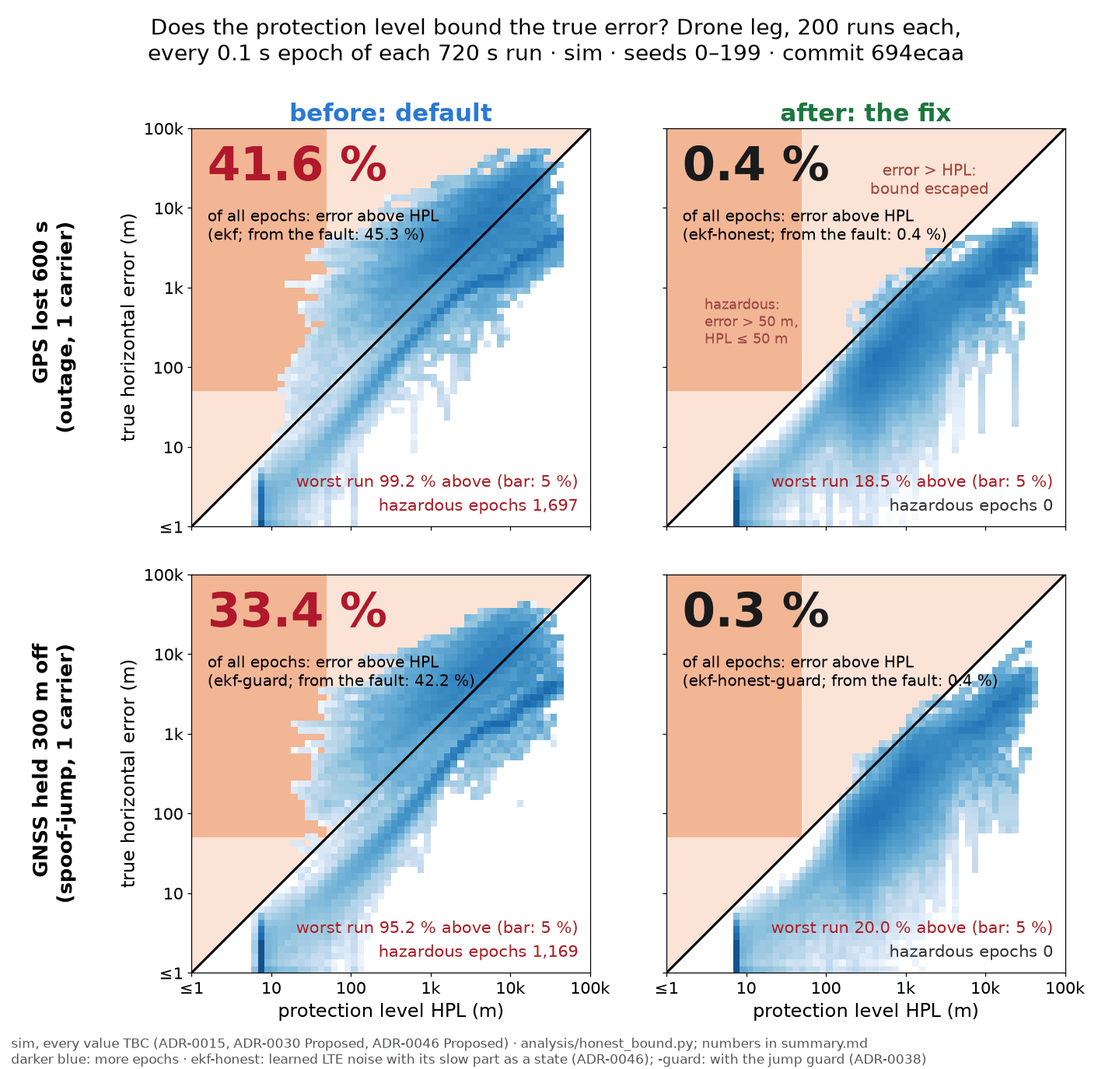
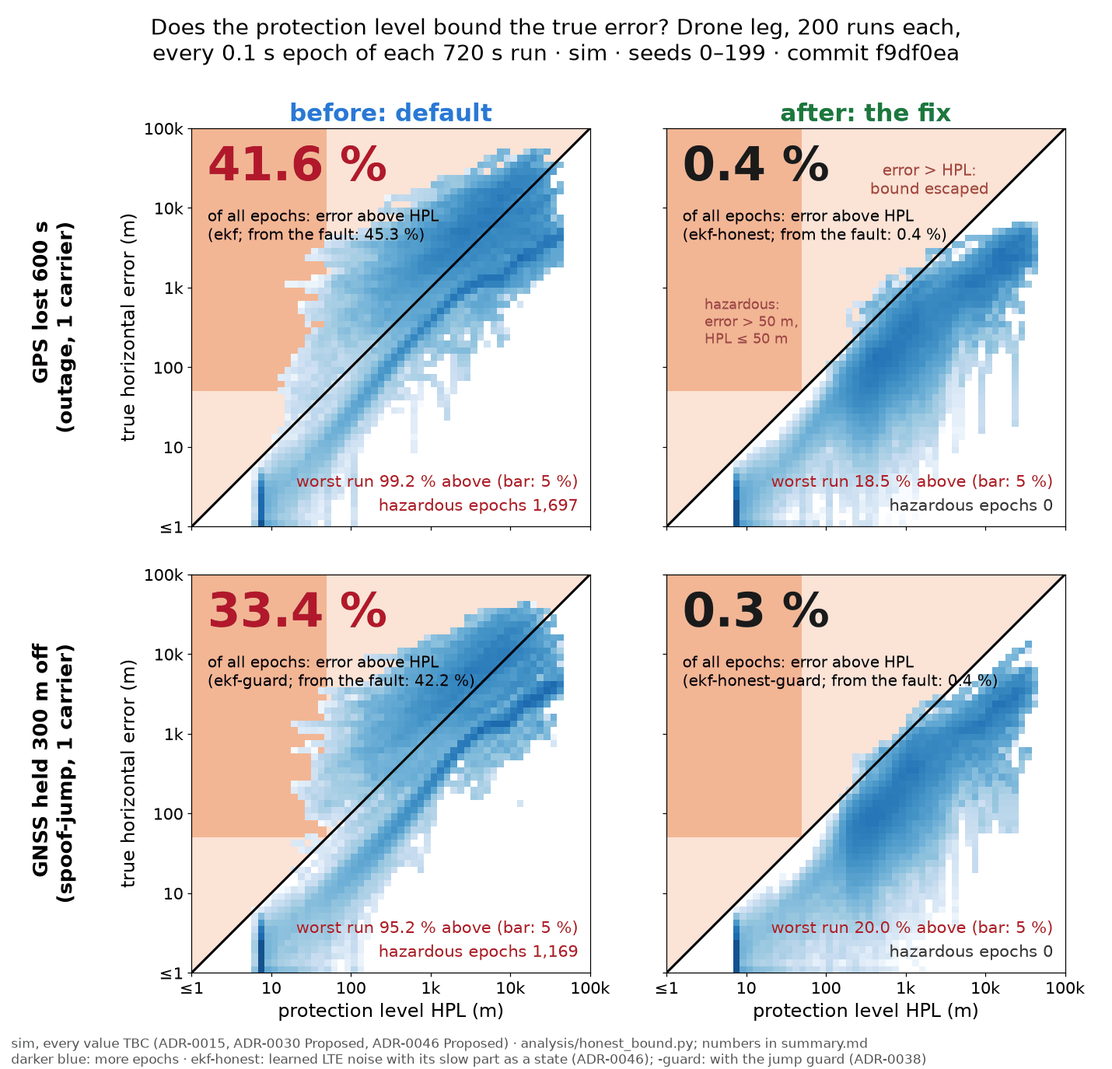
docs(analysis): regenerate the honest-bound results from the full re-run
Every plan re-run at f9df0ea on g14, clean tree (11 plans, all
finished); summary and figure from python analysis/honest_bound.py
--report at 666fc94.

Moved against the committed summary:
- realistic/long-outage, ekf as registered: above HPL 90.87 % -> 10.67 %
  (baro-drift 7.95 % -> 3.65 %; tune seeds 91.36 % -> 7.68 %), from
  PR #244's receiver-clock model; the old numbers stay as the
  pseudorange_receiver_clock false rows.
- approach/outage, ekf and ekf-learned-noise: above HPL 83.75 % ->
  12.51 %, the same cause.
- New columns: no harm over the whole outage, and the stress table.
Unchanged: every drone row (the 27 main-table rows match cell for cell
apart from the two new columns; the measure rows gain the NEES column
the older pickles did not record).

Part of #226.

Changed region(s): [[0.1231, 0.0305, 0.8615, 0.0611]]

diff --git a/analysis/results/honest-bound/summary.md b/analysis/results/honest-bound/summary.md
@@ -10,39 +10,62 @@
 
 ## Bars on held-out seeds (`stress`)
 
-`python analysis/honest_bound.py --plan stress --part plain:13c --seeds 0-19 --jobs 3 --host g14` at `9b02665` on g14 (Python 3.12.13), seeds 0–19, 107 min; `python analysis/honest_bound.py --plan stress --part plain:1c --seeds 0-199 --jobs 5 --host g14` at `694ecaa` on g14 (Python 3.12.13), seeds 0–199, 90 min; `python analysis/honest_bound.py --plan stress --part plain:6c --seeds 0-19 --jobs 2 --host g14` at `9b02665` on g14 (Python 3.12.13), seeds 0–19, 61 min
+`python analysis/honest_bound.py --plan stress --part plain:13c --seeds 0-19 --jobs 5 --host g14` at `f9df0ea` on g14 (Python 3.12.13), seeds 0–19, 71 min; `python analysis/honest_bound.py --plan stress --part plain:1c --seeds 0-199 --jobs 5 --host g14` at `f9df0ea` on g14 (Python 3.12.13), seeds 0–199, 71 min; `python analysis/honest_bound.py --plan stress --part plain:6c --seeds 0-19 --jobs 2 --host g14` at `f9df0ea` on g14 (Python 3.12.13), seeds 0–19, 54 min
 
-| Scenario | Fix | above HPL from fault (pooled) | worst run | hazardous | Honest (≤ 1 %, ≤ 5 %, 0) | T5 99.9 % | tightness | Useful (≤ 3) | HPL ≤ 50 m | p95 worst: fix / unfixed / default (m) | No harm (≤ 1.05×) | false alarms /h added |
-|---|---|---|---|---|---|---|---|---|---|---|---|---|
-| `drone/nominal/1c` | `ekf-honest` | 0.00 % | 0.0 % | 0 | met | met | – | – | 100.0 % | – / – / – | – – | +0.00 |
-| `drone/outage/1c` | `ekf-honest` | 0.45 % | 18.5 % | 0 | **not met** | **not met** | 1.35 | met | 9.8 % | 2,242 / 2,446 / 11,656 | 0.917 met | -0.30 |
-| `drone/outage-tower-clock-step/1c` | `ekf-honest` | 1.74 % | 22.3 % | 0 | **not met** | **not met** | 1.12 | met | 9.7 % | 2,242 / 2,516 / 11,631 | 0.891 met | -0.85 |
-| `drone/outage-tower-holdover/1c` | `ekf-honest` | 0.45 % | 18.0 % | 0 | **not met** | **not met** | 1.35 | met | 9.8 % | 2,203 / 2,446 / 10,863 | 0.901 met | -0.35 |
-| `drone/outage-imu-bias/1c` | `ekf-honest` | 0.45 % | 18.5 % | 0 | **not met** | **not met** | 1.35 | met | 9.8 % | 2,242 / 2,446 / 11,656 | 0.917 met | -0.30 |
-| `drone/outage-baro-drift/1c` | `ekf-honest` | 0.44 % | 18.4 % | 0 | **not met** | **not met** | 1.35 | met | 0.7 % | 2,242 / 2,446 / 11,656 | 0.917 met | +0.00 |
-| `drone/spoof-jump/1c` | `ekf-honest-guard` | 0.39 % | 20.0 % | 0 | **not met** | **not met** | 0.71 | met | 0.9 % | 2,856 / 2,692 / 11,738 | 1.061 **not met** | +0.00 |
-| `drone/meaconing/1c` | `ekf-honest-guard` | 0.39 % | 20.0 % | 0 | **not met** | **not met** | 0.71 | met | 0.9 % | 2,856 / 2,692 / 11,738 | 1.061 **not met** | +0.00 |
-| `drone/spoof-ramp/1c` | `ekf-honest-guard` | 99.34 % | 99.6 % | 1,089,731 | **not met** | **not met** | 0.02 | met | 100.0 % | 602 / 602 / 602 | 1.000 met | +0.00 |
-| `drone/nominal/6c` | `ekf-honest` | 0.00 % | 0.0 % | 0 | met | met | – | – | 100.0 % | – / – / – | – – | +0.00 |
-| `drone/outage/6c` | `ekf-honest` | 0.38 % | 2.7 % | 0 | met | **not met** | 1.67 | met | 9.8 % | 303 / 331 / 11,190 | 0.916 met | +0.00 |
-| `drone/outage-tower-clock-step/6c` | `ekf-honest` | 0.38 % | 2.6 % | 0 | met | **not met** | 1.64 | met | 9.8 % | 315 / 340 / 11,190 | 0.927 met | +0.00 |
-| `drone/outage-tower-holdover/6c` | `ekf-honest` | 0.43 % | 2.3 % | 0 | met | **not met** | 1.70 | met | 9.8 % | 313 / 341 / 11,194 | 0.918 met | +0.00 |
-| `drone/outage-imu-bias/6c` | `ekf-honest` | 0.38 % | 2.7 % | 0 | met | **not met** | 1.67 | met | 9.8 % | 303 / 331 / 11,190 | 0.916 met | +0.00 |
-| `drone/outage-baro-drift/6c` | `ekf-honest` | 0.38 % | 2.7 % | 0 | met | **not met** | 1.66 | met | 0.7 % | 303 / 331 / 11,190 | 0.916 met | +0.00 |
-| `drone/spoof-jump/6c` | `ekf-honest-guard` | 0.24 % | 2.8 % | 0 | met | **not met** | 1.71 | met | 0.9 % | 260 / 290 / 5,497 | 0.897 met | +0.00 |
-| `drone/meaconing/6c` | `ekf-honest-guard` | 0.24 % | 2.8 % | 0 | met | **not met** | 1.71 | met | 0.9 % | 260 / 290 / 5,497 | 0.897 met | +0.00 |
-| `drone/spoof-ramp/6c` | `ekf-honest-guard` | 99.34 % | 99.5 % | 108,980 | **not met** | **not met** | 0.02 | met | 100.0 % | 602 / 602 / 602 | 1.000 met | +0.00 |
-| `drone/nominal/13c` | `ekf-honest` | 0.00 % | 0.0 % | 0 | met | met | – | – | 100.0 % | – / – / – | – – | +0.00 |
-| `drone/outage/13c` | `ekf-honest` | 0.20 % | 0.9 % | 0 | met | **not met** | 1.79 | met | 9.8 % | 136 / 115 / 12,503 | 1.186 **not met** | +0.00 |
-| `drone/outage-tower-clock-step/13c` | `ekf-honest` | 0.19 % | 0.8 % | 0 | met | **not met** | 1.80 | met | 9.8 % | 136 / 117 / 12,503 | 1.163 **not met** | +0.00 |
-| `drone/outage-tower-holdover/13c` | `ekf-honest` | 0.20 % | 0.9 % | 0 | met | **not met** | 1.79 | met | 9.8 % | 136 / 120 / 12,375 | 1.132 **not met** | +0.00 |
-| `drone/outage-imu-bias/13c` | `ekf-honest` | 0.20 % | 0.9 % | 0 | met | **not met** | 1.79 | met | 9.8 % | 136 / 115 / 12,503 | 1.186 **not met** | +0.00 |
-| `drone/outage-baro-drift/13c` | `ekf-honest` | 0.19 % | 0.9 % | 0 | met | **not met** | 1.79 | met | 0.8 % | 136 / 115 / 12,503 | 1.186 **not met** | +0.00 |
-| `drone/spoof-jump/13c` | `ekf-honest-guard` | 0.18 % | 1.0 % | 0 | met | **not met** | 1.93 | met | 0.9 % | 139 / 134 / 9,973 | 1.039 met | +0.00 |
-| `drone/meaconing/13c` | `ekf-honest-guard` | 0.18 % | 1.0 % | 0 | met | **not met** | 1.93 | met | 0.9 % | 139 / 134 / 9,973 | 1.039 met | +0.00 |
-| `drone/spoof-ramp/13c` | `ekf-honest-guard` | 99.34 % | 99.5 % | 108,979 | **not met** | **not met** | 0.02 | met | 100.0 % | 602 / 602 / 602 | 1.000 met | +0.00 |
+| Scenario | Fix | above HPL from fault (pooled) | worst run | hazardous | Honest (≤ 1 %, ≤ 5 %, 0) | T5 99.9 % | tightness | Useful (≤ 3) | HPL ≤ 50 m | p95 worst: fix / unfixed / default (m) | No harm (≤ 1.05×) | p95 worst, whole outage: fix / unfixed (m) | No harm, whole outage (≤ 1.05×) | false alarms /h added |
+|---|---|---|---|---|---|---|---|---|---|---|---|---|---|---|
+| `drone/nominal/1c` | `ekf-honest` | 0.00 % | 0.0 % | 0 | met | met | – | – | 100.0 % | – / – / – | – – | – / – | – – | +0.00 |
+| `drone/outage/1c` | `ekf-honest` | 0.45 % | 18.5 % | 0 | **not met** | **not met** | 1.35 | met | 9.8 % | 2,242 / 2,446 / 11,656 | 0.917 met | 4,900 / 5,180 | 0.946 met | -0.30 |
+| `drone/outage-tower-clock-step/1c` | `ekf-honest` | 1.74 % | 22.3 % | 0 | **not met** | **not met** | 1.12 | met | 9.7 % | 2,242 / 2,516 / 11,631 | 0.891 met | 4,913 / 5,180 | 0.949 met | -0.85 |
+| `drone/outage-tower-holdover/1c` | `ekf-honest` | 0.45 % | 18.0 % | 0 | **not met** | **not met** | 1.35 | met | 9.8 % | 2,203 / 2,446 / 10,863 | 0.901 met | 4,825 / 5,142 | 0.938 met | -0.35 |
+| `drone/outage-imu-bias/1c` | `ekf-honest` | 0.45 % | 18.5 % | 0 | **not met** | **not met** | 1.35 | met | 9.8 % | 2,242 / 2,446 / 11,656 | 0.917 met | 4,900 / 5,180 | 0.946 met | -0.30 |
+| `drone/outage-baro-drift/1c` | `ekf-honest` | 0.44 % | 18.4 % | 0 | **not met** | **not met** | 1.35 | met | 0.7 % | 2,242 / 2,446 / 11,656 | 0.917 met | 4,900 / 5,180 | 0.946 met | +0.00 |
+| `drone/spoof-jump/1c` | `ekf-honest-guard` | 0.39 % | 20.0 % | 0 | **not met** | **not met** | 0.71 | met | 0.9 % | 2,856 / 2,692 / 11,738 | 1.061 **not met** | – / – | – – | +0.00 |
+| `drone/meaconing/1c` | `ekf-honest-guard` | 0.39 % | 20.0 % | 0 | **not met** | **not met** | 0.71 | met | 0.9 % | 2,856 / 2,692 / 11,738 | 1.061 **not met** | – / – | – – | +0.00 |
+| `drone/spoof-ramp/1c` | `ekf-honest-guard` | 99.34 % | 99.6 % | 1,089,731 | **not met** | **not met** | 0.02 | met | 100.0 % | 602 / 602 / 602 | 1.000 met | – / – | – – | +0.00 |
+| `drone/nominal/6c` | `ekf-honest` | 0.00 % | 0.0 % | 0 | met | met | – | – | 100.0 % | – / – / – | – – | – / – | – – | +0.00 |
+| `drone/outage/6c` | `ekf-honest` | 0.38 % | 2.7 % | 0 | met | **not met** | 1.67 | met | 9.8 % | 303 / 331 / 11,190 | 0.916 met | 303 / 331 | 0.916 met | +0.00 |
+| `drone/outage-tower-clock-step/6c` | `ekf-honest` | 0.38 % | 2.6 % | 0 | met | **not met** | 1.64 | met | 9.8 % | 315 / 340 / 11,190 | 0.927 met | 315 / 340 | 0.927 met | +0.00 |
+| `drone/outage-tower-holdover/6c` | `ekf-honest` | 0.43 % | 2.3 % | 0 | met | **not met** | 1.70 | met | 9.8 % | 313 / 341 / 11,194 | 0.918 met | 313 / 341 | 0.918 met | +0.00 |
+| `drone/outage-imu-bias/6c` | `ekf-honest` | 0.38 % | 2.7 % | 0 | met | **not met** | 1.67 | met | 9.8 % | 303 / 331 / 11,190 | 0.916 met | 303 / 331 | 0.916 met | +0.00 |
+| `drone/outage-baro-drift/6c` | `ekf-honest` | 0.38 % | 2.7 % | 0 | met | **not met** | 1.66 | met | 0.7 % | 303 / 331 / 11,190 | 0.916 met | 303 / 331 | 0.916 met | +0.00 |
+| `drone/spoof-jump/6c` | `ekf-honest-guard` | 0.24 % | 2.8 % | 0 | met | **not met** | 1.71 | met | 0.9 % | 260 / 290 / 5,497 | 0.897 met | – / – | – – | +0.00 |
+| `drone/meaconing/6c` | `ekf-honest-guard` | 0.24 % | 2.8 % | 0 | met | **not met** | 1.71 | met | 0.9 % | 260 / 290 / 5,497 | 0.897 met | – / – | – – | +0.00 |
+| `drone/spoof-ramp/6c` | `ekf-honest-guard` | 99.34 % | 99.5 % | 108,980 | **not met** | **not met** | 0.02 | met | 100.0 % | 602 / 602 / 602 | 1.000 met | – / – | – – | +0.00 |
+| `drone/nominal/13c` | `ekf-honest` | 0.00 % | 0.0 % | 0 | met | met | – | – | 100.0 % | – / – / – | – – | – / – | – – | +0.00 |
+| `drone/outage/13c` | `ekf-honest` | 0.20 % | 0.9 % | 0 | met | **not met** | 1.79 | met | 9.8 % | 136 / 115 / 12,503 | 1.186 **not met** | 136 / 142 | 0.961 met | +0.00 |
+| `drone/outage-tower-clock-step/13c` | `ekf-honest` | 0.19 % | 0.8 % | 0 | met | **not met** | 1.80 | met | 9.8 % | 136 / 117 / 12,503 | 1.163 **not met** | 136 / 143 | 0.949 met | +0.00 |
+| `drone/outage-tower-holdover/13c` | `ekf-honest` | 0.20 % | 0.9 % | 0 | met | **not met** | 1.79 | met | 9.8 % | 136 / 120 / 12,375 | 1.132 **not met** | 148 / 146 | 1.016 met | +0.00 |
+| `drone/outage-imu-bias/13c` | `ekf-honest` | 0.20 % | 0.9 % | 0 | met | **not met** | 1.79 | met | 9.8 % | 136 / 115 / 12,503 | 1.186 **not met** | 136 / 142 | 0.961 met | +0.00 |
+| `drone/outage-baro-drift/13c` | `ekf-honest` | 0.19 % | 0.9 % | 0 | met | **not met** | 1.79 | met | 0.8 % | 136 / 115 / 12,503 | 1.186 **not met** | 136 / 141 | 0.964 met | +0.00 |
+| `drone/spoof-jump/13c` | `ekf-honest-guard` | 0.18 % | 1.0 % | 0 | met | **not met** | 1.93 | met | 0.9 % | 139 / 134 / 9,973 | 1.039 met | – / – | – – | +0.00 |
+| `drone/meaconing/13c` | `ekf-honest-guard` | 0.18 % | 1.0 % | 0 | met | **not met** | 1.93 | met | 0.9 % | 139 / 134 / 9,973 | 1.039 met | – / – | – – | +0.00 |
+| `drone/spoof-ramp/13c` | `ekf-honest-guard` | 99.34 % | 99.5 % | 108,979 | **not met** | **not met** | 0.02 | met | 100.0 % | 602 / 602 / 602 | 1.000 met | – / – | – – | +0.00 |
 
-Honest on 17 of 27 drone scenario keys; T5's 99.9 % on 3 of 27; useful (where there is a GPS loss) on 24 of 24; no harm on 17 of 24. *Useful* tests tightness ≤ 3 only: below 1 (the 2 m/s ramp, 0.02) the HPL is far under the error and the entry fails *Honest*. *No harm* compares the fix with the same estimator without it (`ekf-learned-noise`, `+guard`) at its worst second.
+Honest on 17 of 27 drone scenario keys; T5's 99.9 % on 3 of 27; useful (where there is a GPS loss) on 24 of 24; no harm on 17 of 24, and over the whole outage on 15 of 15. *Useful* tests tightness ≤ 3 only: below 1 (the 2 m/s ramp, 0.02) the HPL is far under the error and the entry fails *Honest*. *No harm* compares the fix with the same estimator without it (`ekf-learned-noise`, `+guard`) at its worst second over 0–300 s (ADR-0034); *no harm, whole outage* the same over the whole GPS outage (600 s; not defined on the GNSS attacks, which have no outage that ends).
+
+## No harm over the whole outage (`stress`)
+
+The across-run 95th percentile and median of horizontal error at seconds after GPS loss, and the 95th percentile's worst second over the whole 600 s outage.
+
+| Scenario | Estimator | runs | p95 at 120 s | p95 at 300 s | p95 at 450 s | p95 at 600 s | p95 worst (m, s) | median at 120 s | median at 300 s | median at 450 s | median at 600 s |
+|---|---|---|---|---|---|---|---|---|---|---|---|
+| `drone/outage/1c` | `ekf` | 200 | 3,577 | 11,656 | 20,548 | 31,134 | 31,134 (s 600) | 1,240 | 4,063 | 6,560 | 9,407 |
+| `drone/outage/1c` | `ekf-learned-noise` | 200 | 797 | 2,446 | 3,718 | 5,180 | 5,180 (s 600) | 413 | 702 | 634 | 642 |
+| `drone/outage/1c` | `ekf-honest` | 200 | 688 | 2,242 | 3,542 | 4,900 | 4,900 (s 600) | 381 | 701 | 761 | 1,554 |
+| `drone/outage/1c` | honest / learned | | 0.86 | 0.92 | 0.95 | 0.95 | 0.946 | 0.92 | 1.00 | 1.20 | 2.42 |
+| `drone/outage/6c` | `ekf` | 20 | 3,083 | 11,090 | 20,298 | 32,280 | 32,280 (s 600) | 1,283 | 4,771 | 7,802 | 10,720 |
+| `drone/outage/6c` | `ekf-learned-noise` | 20 | 140 | 169 | 177 | 117 | 331 (s 203) | 83 | 66 | 74 | 52 |
+| `drone/outage/6c` | `ekf-honest` | 20 | 138 | 156 | 156 | 145 | 303 (s 203) | 80 | 53 | 72 | 49 |
+| `drone/outage/6c` | honest / learned | | 0.98 | 0.92 | 0.88 | 1.24 | 0.916 | 0.96 | 0.80 | 0.97 | 0.95 |
+| `drone/outage/13c` | `ekf` | 20 | 3,369 | 12,503 | 23,020 | 35,255 | 35,255 (s 600) | 1,147 | 4,223 | 11,443 | 16,644 |
+| `drone/outage/13c` | `ekf-learned-noise` | 20 | 66 | 92 | 71 | 72 | 142 (s 425) | 50 | 45 | 26 | 44 |
+| `drone/outage/13c` | `ekf-honest` | 20 | 75 | 90 | 86 | 70 | 136 (s 41) | 51 | 49 | 36 | 43 |
+| `drone/outage/13c` | honest / learned | | 1.13 | 0.97 | 1.22 | 0.98 | 0.961 | 1.01 | 1.09 | 1.38 | 0.99 |
+
+Each run's own p95 over the outage, `ekf-honest` / `ekf-learned-noise`, paired by seed: `drone/outage/1c`: median 0.98, 40% of 200 runs over 1.05×, largest 6.11 (seed 74); `drone/outage/6c`: median 0.92, 10% of 20 runs over 1.05×, largest 1.15 (seed 1); `drone/outage/13c`: median 0.99, 30% of 20 runs over 1.05×, largest 1.32 (seed 13).
+
+Why the median grows late on 1 carrier ([late-outage.md](late-outage.md), the same seeds replayed record by record): `ekf-honest`'s position covariance is larger (it is the honest one), so the curvature rule, which skips a radio record whose second-order term σ⊥⁴ / (2 r²) exceeds its learned noise, drops more of the LTE records as the outage goes on; the gate rejects almost none, and the records it uses carry a smaller R than `ekf-learned-noise`'s. Fewer updates, so the typical run drifts further while its HPL still covers it. Keeping every record makes both filters far more accurate and breaks the bound, so the rule is doing its job. What would fix it is an update that handles the nonlinearity instead of dropping the record (an iterated or sigma-point update, or a coarse re-acquisition once the position is far off); not tried here.
 
 ## Before and after, every drone scenario key (`stress`)
 
@@ -182,41 +205,47 @@ Honest on 17 of 27 drone scenario keys; T5's 99.9 % on 3 of 27; useful (where th
 
 The approach leg's `stress` rows were computed before `ekf-honest` gained the receiver-clock switch (its records carry our clock and no `rx_clock`), so they are left out above and rerun here (`legs`); the drone and timing records all have `rx_clock`, which the switch does not touch (`tests/test_ekf_honest.py`).
 
-`python analysis/honest_bound.py --plan legs --seeds 0-199 --jobs 2 --host mac` at `479d98b` on mac (Python 3.14.6), seeds 0–199, 4 min
+`python analysis/honest_bound.py --plan legs --seeds 0-199 --jobs 2 --host g14` at `f9df0ea` on g14 (Python 3.12.13), seeds 0–199, 5 min
 
 | Scenario | Estimator | runs | above HPL, whole run | above HPL, from fault | worst run | hazardous (runs) | NEES mean | tightness | HPL ≤ 50 m | p95 worst (m, s) | unsafe after loss (median s) |
 |---|---|---|---|---|---|---|---|---|---|---|---|
 | `approach/nominal` | `ekf` | 50 | 0.00 % | 0.00 % | 0.0 % (seed 0) | 0 (0) | 1.5 | – | 100.0 % | – | – |
 | `approach/nominal` | `ekf-learned-noise` | 50 | 0.00 % | 0.00 % | 0.0 % (seed 0) | 0 (0) | 1.5 | – | 100.0 % | – | – |
 | `approach/nominal` | `ekf-honest` | 50 | 0.00 % | 0.00 % | 0.0 % (seed 0) | 0 (0) | 1.5 | – | 100.0 % | – | – |
-| `approach/outage` | `ekf` | 50 | 76.78 % | 83.75 % | 96.1 % (seed 22) | 0 (0) | 33412.3 | 0.45 | 0.7 % | 2,938 (s 199) | 4.9 |
-| `approach/outage` | `ekf-learned-noise` | 50 | 76.78 % | 83.75 % | 96.1 % (seed 22) | 0 (0) | 33412.3 | 0.45 | 0.7 % | 2,938 (s 199) | 4.9 |
+| `approach/outage` | `ekf` | 50 | 11.47 % | 12.51 % | 43.3 % (seed 4) | 0 (0) | 199.2 | 1.17 | 4.7 % | 2,312 (s 141) | 4.9 |
+| `approach/outage` | `ekf-learned-noise` | 50 | 11.47 % | 12.51 % | 43.3 % (seed 4) | 0 (0) | 199.2 | 1.17 | 4.7 % | 2,312 (s 141) | 4.9 |
 | `approach/outage` | `ekf-honest` | 50 | 0.00 % | 0.00 % | 0.0 % (seed 0) | 0 (0) | 1.3 | 3.36 | 9.8 % | 1,747 (s 230) | 4.9 |
 
 ## `realistic-long-outage` and the barometer, held-out seeds (`realistic`, #228)
 
-`python analysis/honest_bound.py --plan realistic --seeds 0-199 --jobs 2 --host mac` at `624436f` (DIRTY TREE) on mac (Python 3.14.6), seeds 0–199, 42 min
+`python analysis/honest_bound.py --plan realistic --seeds 0-199 --jobs 3 --host g14` at `f9df0ea` on g14 (Python 3.12.13), seeds 0–199, 41 min
 
 | Scenario | Estimator | runs | above HPL, whole run | above HPL, from fault | worst run | hazardous (runs) | NEES mean | tightness | HPL ≤ 50 m | p95 worst (m, s) | unsafe after loss (median s) |
 |---|---|---|---|---|---|---|---|---|---|---|---|
+| `realistic/nominal` | `ekf {"pseudorange_receiver_clock": false}` | 200 | 0.00 % | 0.00 % | 0.0 % (seed 0) | 0 (0) | 1.6 | – | 99.9 % | – | – |
 | `realistic/nominal` | `ekf {"pseudorange_receiver_clock": true}` | 200 | 0.00 % | 0.00 % | 0.0 % (seed 0) | 0 (0) | 1.6 | – | 99.9 % | – | – |
 | `realistic/nominal` | `ekf` | 200 | 0.00 % | 0.00 % | 0.0 % (seed 0) | 0 (0) | 1.6 | – | 99.9 % | – | – |
 | `realistic/nominal` | `ekf-honest {"pseudorange_receiver_clock": false}` | 200 | 0.00 % | 0.00 % | 0.0 % (seed 0) | 0 (0) | 1.6 | – | 99.9 % | – | – |
 | `realistic/nominal` | `ekf-honest` | 200 | 0.00 % | 0.00 % | 0.0 % (seed 0) | 0 (0) | 1.6 | – | 99.9 % | – | – |
+| `realistic/long-outage` | `ekf {"pseudorange_receiver_clock": false}` | 200 | 75.75 % | 90.87 % | 97.3 % (seed 9) | 0 (0) | 6692.3 | 0.17 | 1.6 % | 3,609 (s 288) | 4.9 |
+| `realistic/baro-drift` | `ekf {"pseudorange_receiver_clock": false}` | 200 | 5.30 % | 7.95 % | 37.5 % (seed 137) | 0 (0) | 1266.0 | 1.23 | 45.5 % | 3,702 (s 239) | – |
 | `realistic/long-outage` | `ekf {"pseudorange_receiver_clock": true}` | 200 | 8.89 % | 10.67 % | 54.2 % (seed 80) | 0 (0) | 18.9 | 0.59 | 1.6 % | 588 (s 270) | 4.9 |
 | `realistic/baro-drift` | `ekf {"pseudorange_receiver_clock": true}` | 200 | 2.43 % | 3.65 % | 32.9 % (seed 45) | 0 (0) | 9.4 | 0.92 | 44.8 % | 327 (s 178) | – |
-| `realistic/long-outage` | `ekf` | 200 | 75.75 % | 90.87 % | 97.3 % (seed 9) | 0 (0) | 6692.3 | 0.17 | 1.6 % | 3,609 (s 288) | 4.9 |
-| `realistic/baro-drift` | `ekf` | 200 | 5.30 % | 7.95 % | 37.5 % (seed 137) | 0 (0) | 1266.0 | 1.23 | 45.5 % | 3,702 (s 239) | – |
+| `realistic/long-outage` | `ekf` | 200 | 8.89 % | 10.67 % | 54.2 % (seed 80) | 0 (0) | 18.9 | 0.59 | 1.6 % | 588 (s 270) | 4.9 |
+| `realistic/baro-drift` | `ekf` | 200 | 2.43 % | 3.65 % | 32.9 % (seed 45) | 0 (0) | 9.4 | 0.92 | 44.8 % | 327 (s 178) | – |
 | `realistic/long-outage` | `ekf-honest {"pseudorange_receiver_clock": false}` | 200 | 70.27 % | 84.30 % | 95.6 % (seed 160) | 0 (0) | 1314.0 | 0.26 | 1.6 % | 2,706 (s 298) | 4.9 |
 | `realistic/baro-drift` | `ekf-honest {"pseudorange_receiver_clock": false}` | 200 | 8.76 % | 13.14 % | 49.8 % (seed 153) | 0 (0) | 271.1 | 0.93 | 45.2 % | 3,276 (s 234) | – |
 | `realistic/long-outage` | `ekf-honest` | 200 | 0.16 % | 0.19 % | 24.5 % (seed 74) | 0 (0) | 2.6 | 1.85 | 1.6 % | 516 (s 270) | 4.9 |
 | `realistic/baro-drift` | `ekf-honest` | 200 | 0.00 % | 0.00 % | 0.8 % (seed 45) | 0 (0) | 2.1 | 2.07 | 45.5 % | 319 (s 150) | – |
+| `realistic/long-outage/nobaro` | `ekf {"pseudorange_receiver_clock": false}` | 200 | 69.81 % | 83.75 % | 96.6 % (seed 45) | 0 (0) | 1161.9 | 0.25 | 1.6 % | 2,942 (s 294) | 4.9 |
+| `realistic/long-outage/drop-baro` | `ekf {"pseudorange_receiver_clock": false}` | 200 | 71.17 % | 85.38 % | 97.0 % (seed 24) | 0 (0) | 1059.1 | 0.26 | 1.6 % | 2,715 (s 277) | 4.9 |
+| `realistic/long-outage/barobias=0` | `ekf {"pseudorange_receiver_clock": false}` | 200 | 75.75 % | 90.88 % | 97.3 % (seed 9) | 0 (0) | 6692.4 | 0.17 | 1.6 % | 3,609 (s 288) | 4.9 |
 | `realistic/long-outage/nobaro` | `ekf {"pseudorange_receiver_clock": true}` | 200 | 7.60 % | 9.11 % | 66.0 % (seed 44) | 0 (0) | 16.5 | 0.54 | 1.6 % | 1,089 (s 270) | 4.9 |
 | `realistic/long-outage/drop-baro` | `ekf {"pseudorange_receiver_clock": true}` | 200 | 6.83 % | 8.19 % | 61.6 % (seed 81) | 0 (0) | 17.1 | 0.63 | 1.6 % | 1,079 (s 270) | 4.9 |
 | `realistic/long-outage/barobias=0` | `ekf {"pseudorange_receiver_clock": true}` | 200 | 8.89 % | 10.67 % | 54.2 % (seed 80) | 0 (0) | 18.9 | 0.59 | 1.6 % | 588 (s 270) | 4.9 |
-| `realistic/long-outage/nobaro` | `ekf` | 200 | 69.81 % | 83.75 % | 96.6 % (seed 45) | 0 (0) | 1161.9 | 0.25 | 1.6 % | 2,942 (s 294) | 4.9 |
-| `realistic/long-outage/drop-baro` | `ekf` | 200 | 71.17 % | 85.38 % | 97.0 % (seed 24) | 0 (0) | 1059.1 | 0.26 | 1.6 % | 2,715 (s 277) | 4.9 |
-| `realistic/long-outage/barobias=0` | `ekf` | 200 | 75.75 % | 90.88 % | 97.3 % (seed 9) | 0 (0) | 6692.4 | 0.17 | 1.6 % | 3,609 (s 288) | 4.9 |
+| `realistic/long-outage/nobaro` | `ekf` | 200 | 7.60 % | 9.11 % | 66.0 % (seed 44) | 0 (0) | 16.5 | 0.54 | 1.6 % | 1,089 (s 270) | 4.9 |
+| `realistic/long-outage/drop-baro` | `ekf` | 200 | 6.83 % | 8.19 % | 61.6 % (seed 81) | 0 (0) | 17.1 | 0.63 | 1.6 % | 1,079 (s 270) | 4.9 |
+| `realistic/long-outage/barobias=0` | `ekf` | 200 | 8.89 % | 10.67 % | 54.2 % (seed 80) | 0 (0) | 18.9 | 0.59 | 1.6 % | 588 (s 270) | 4.9 |
 | `realistic/long-outage/nobaro` | `ekf-honest {"pseudorange_receiver_clock": false}` | 200 | 58.90 % | 70.67 % | 96.0 % (seed 183) | 0 (0) | 233.1 | 0.46 | 1.6 % | 2,552 (s 299) | 4.9 |
 | `realistic/long-outage/drop-baro` | `ekf-honest {"pseudorange_receiver_clock": false}` | 200 | 62.25 % | 74.68 % | 95.6 % (seed 160) | 0 (0) | 222.3 | 0.45 | 1.6 % | 2,496 (s 299) | 4.9 |
 | `realistic/long-outage/barobias=0` | `ekf-honest {"pseudorange_receiver_clock": false}` | 200 | 70.27 % | 84.30 % | 95.6 % (seed 160) | 0 (0) | 1314.0 | 0.26 | 1.6 % | 2,706 (s 298) | 4.9 |
@@ -226,7 +255,7 @@ The approach leg's `stress` rows were computed before `ekf-honest` gained the re
 
 ## Sweep of the new settings (`sweep`)
 
-`python analysis/honest_bound.py --plan sweep --seeds 0-49 --jobs 5 --host g14` at `624436f` on g14 (Python 3.12.13), seeds 0–49, 17 min
+`python analysis/honest_bound.py --plan sweep --seeds 0-49 --jobs 5 --host g14` at `f9df0ea` on g14 (Python 3.12.13), seeds 0–49, 19 min
 
 | Scenario | Setting | above HPL from fault | worst run | hazardous | tightness | p95 worst (m) | p95 worst / unfixed | Honest | Useful | No harm |
 |---|---|---|---|---|---|---|---|---|---|---|
@@ -247,7 +276,7 @@ The approach leg's `stress` rows were computed before `ekf-honest` gained the re
 
 ## Solution separation as the reference (`mhss`)
 
-`python analysis/honest_bound.py --plan mhss --seeds 0-19 --jobs 2 --host g14` at `624436f` on g14 (Python 3.12.13), seeds 0–19, 41 min
+`python analysis/honest_bound.py --plan mhss --seeds 0-19 --jobs 2 --host g14` at `f9df0ea` on g14 (Python 3.12.13), seeds 0–19, 48 min
 
 | Scenario | Estimator | runs | above HPL, whole run | above HPL, from fault | worst run | hazardous (runs) | NEES mean | tightness | HPL ≤ 50 m | p95 worst (m, s) | unsafe after loss (median s) |
 |---|---|---|---|---|---|---|---|---|---|---|---|
@@ -291,28 +320,34 @@ The approach leg's `stress` rows were computed before `ekf-honest` gained the re
 
 ### `realistic-long-outage` and the barometer (#228, tuning seeds 1000–1049)
 
-The set's towers report their true white noise (50 m) but carry 50 m / 30 s multipath too, and every range carries our receiver clock (`receiver_clock: true`, 20 ppb drift), which `ekf` does not model (`pseudorange_receiver_clock` False). Its barometer is drawn as white 0.5 m at 10 Hz plus one constant bias of sigma 1.0 m per run (`sim.models.baro`); the filter is told the 0.5 m white part only. Rows: each estimator with the receiver-clock switch as registered and the other way; scenario variants: `nobaro` (no barometer in the sim: every later source's draws change, as #228's ablation), `drop-baro` (the same records, the barometer's dropped before the filter: paired), `barobias=0` (no bias).
+The set's towers report their true white noise (50 m) but carry 50 m / 30 s multipath too, and every range carries our receiver clock (`receiver_clock: true`, 20 ppb drift). `ekf` as registered models it once GNSS time has been used (`pseudorange_receiver_clock` "observed", ADR-0047, PR #244); with it False it is `ekf` before #244, which did not model it (#228). Its barometer is drawn as white 0.5 m at 10 Hz plus one constant bias of sigma 1.0 m per run (`sim.models.baro`); the filter is told the 0.5 m white part only. Rows: each estimator with the receiver-clock switch as registered and the other way; scenario variants: `nobaro` (no barometer in the sim: every later source's draws change, as #228's ablation), `drop-baro` (the same records, the barometer's dropped before the filter: paired), `barobias=0` (no bias).
 
 | Scenario | Estimator | runs | above HPL, whole run | above HPL, from fault | worst run | hazardous (runs) | NEES mean | tightness | HPL ≤ 50 m | p95 worst (m, s) | unsafe after loss (median s) |
 |---|---|---|---|---|---|---|---|---|---|---|---|
+| `realistic/nominal` | `ekf {"pseudorange_receiver_clock": false}` | 50 | 0.00 % | 0.00 % | 0.0 % (seed 1000) | 0 (0) | 1.6 | – | 99.9 % | – | – |
 | `realistic/nominal` | `ekf {"pseudorange_receiver_clock": true}` | 50 | 0.00 % | 0.00 % | 0.0 % (seed 1000) | 0 (0) | 1.6 | – | 99.9 % | – | – |
 | `realistic/nominal` | `ekf` | 50 | 0.00 % | 0.00 % | 0.0 % (seed 1000) | 0 (0) | 1.6 | – | 99.9 % | – | – |
 | `realistic/nominal` | `ekf-honest {"pseudorange_receiver_clock": false}` | 50 | 0.00 % | 0.00 % | 0.0 % (seed 1000) | 0 (0) | 1.6 | – | 99.9 % | – | – |
 | `realistic/nominal` | `ekf-honest` | 50 | 0.00 % | 0.00 % | 0.0 % (seed 1000) | 0 (0) | 1.6 | – | 99.9 % | – | – |
+| `realistic/long-outage` | `ekf {"pseudorange_receiver_clock": false}` | 50 | 76.16 % | 91.36 % | 97.3 % (seed 1023) | 0 (0) | 6905.1 | 0.19 | 1.6 % | 3,375 (s 275) | 4.9 |
+| `realistic/baro-drift` | `ekf {"pseudorange_receiver_clock": false}` | 50 | 5.84 % | 8.75 % | 22.9 % (seed 1035) | 0 (0) | 1378.0 | 1.56 | 45.8 % | 3,490 (s 239) | – |
 | `realistic/long-outage` | `ekf {"pseudorange_receiver_clock": true}` | 50 | 6.40 % | 7.68 % | 43.5 % (seed 1010) | 0 (0) | 16.8 | 0.73 | 1.6 % | 578 (s 289) | 4.9 |
 | `realistic/baro-drift` | `ekf {"pseudorange_receiver_clock": true}` | 50 | 2.85 % | 4.28 % | 37.5 % (seed 1026) | 0 (0) | 17.5 | 0.89 | 45.0 % | 413 (s 150) | – |
-| `realistic/long-outage` | `ekf` | 50 | 76.16 % | 91.36 % | 97.3 % (seed 1023) | 0 (0) | 6905.1 | 0.19 | 1.6 % | 3,375 (s 275) | 4.9 |
-| `realistic/baro-drift` | `ekf` | 50 | 5.84 % | 8.75 % | 22.9 % (seed 1035) | 0 (0) | 1378.0 | 1.56 | 45.8 % | 3,490 (s 239) | – |
+| `realistic/long-outage` | `ekf` | 50 | 6.40 % | 7.68 % | 43.5 % (seed 1010) | 0 (0) | 16.8 | 0.73 | 1.6 % | 578 (s 289) | 4.9 |
+| `realistic/baro-drift` | `ekf` | 50 | 2.85 % | 4.28 % | 37.5 % (seed 1026) | 0 (0) | 17.5 | 0.89 | 45.0 % | 413 (s 150) | – |
 | `realistic/long-outage` | `ekf-honest {"pseudorange_receiver_clock": false}` | 50 | 70.70 % | 84.81 % | 94.6 % (seed 1016) | 0 (0) | 1335.7 | 0.26 | 1.6 % | 2,824 (s 299) | 4.9 |
 | `realistic/baro-drift` | `ekf-honest {"pseudorange_receiver_clock": false}` | 50 | 8.05 % | 12.07 % | 46.6 % (seed 1034) | 0 (0) | 260.1 | 0.99 | 45.4 % | 2,994 (s 239) | – |
 | `realistic/long-outage` | `ekf-honest` | 50 | 0.30 % | 0.36 % | 17.9 % (seed 1001) | 0 (0) | 2.3 | 2.35 | 1.6 % | 456 (s 289) | 4.9 |
 | `realistic/baro-drift` | `ekf-honest` | 50 | 0.00 % | 0.00 % | 0.0 % (seed 1000) | 0 (0) | 2.1 | 2.20 | 45.8 % | 380 (s 150) | – |
+| `realistic/long-outage/nobaro` | `ekf {"pseudorange_receiver_clock": false}` | 50 | 68.77 % | 82.50 % | 97.0 % (seed 1026) | 0 (0) | 1006.8 | 0.25 | 1.6 % | 2,454 (s 270) | 4.9 |
+| `realistic/long-outage/drop-baro` | `ekf {"pseudorange_receiver_clock": false}` | 50 | 71.88 % | 86.23 % | 97.6 % (seed 1023) | 0 (0) | 1134.1 | 0.25 | 1.6 % | 2,998 (s 279) | 4.9 |
+| `realistic/long-outage/barobias=0` | `ekf {"pseudorange_receiver_clock": false}` | 50 | 76.16 % | 91.36 % | 97.3 % (seed 1023) | 0 (0) | 6905.1 | 0.19 | 1.6 % | 3,375 (s 275) | 4.9 |
 | `realistic/long-outage/nobaro` | `ekf {"pseudorange_receiver_clock": true}` | 50 | 7.37 % | 8.84 % | 63.0 % (seed 1019) | 0 (0) | 18.0 | 0.70 | 1.6 % | 1,278 (s 292) | 4.9 |
 | `realistic/long-outage/drop-baro` | `ekf {"pseudorange_receiver_clock": true}` | 50 | 4.29 % | 5.15 % | 51.9 % (seed 1010) | 0 (0) | 13.5 | 0.77 | 1.6 % | 769 (s 293) | 4.9 |
 | `realistic/long-outage/barobias=0` | `ekf {"pseudorange_receiver_clock": true}` | 50 | 6.40 % | 7.68 % | 43.5 % (seed 1010) | 0 (0) | 16.8 | 0.73 | 1.6 % | 578 (s 289) | 4.9 |
-| `realistic/long-outage/nobaro` | `ekf` | 50 | 68.77 % | 82.50 % | 97.0 % (seed 1026) | 0 (0) | 1006.8 | 0.25 | 1.6 % | 2,454 (s 270) | 4.9 |
-| `realistic/long-outage/drop-baro` | `ekf` | 50 | 71.88 % | 86.23 % | 97.6 % (seed 1023) | 0 (0) | 1134.1 | 0.25 | 1.6 % | 2,998 (s 279) | 4.9 |
-| `realistic/long-outage/barobias=0` | `ekf` | 50 | 76.16 % | 91.36 % | 97.3 % (seed 1023) | 0 (0) | 6905.1 | 0.19 | 1.6 % | 3,375 (s 275) | 4.9 |
+| `realistic/long-outage/nobaro` | `ekf` | 50 | 7.37 % | 8.84 % | 63.0 % (seed 1019) | 0 (0) | 18.0 | 0.70 | 1.6 % | 1,278 (s 292) | 4.9 |
+| `realistic/long-outage/drop-baro` | `ekf` | 50 | 4.29 % | 5.15 % | 51.9 % (seed 1010) | 0 (0) | 13.5 | 0.77 | 1.6 % | 769 (s 293) | 4.9 |
+| `realistic/long-outage/barobias=0` | `ekf` | 50 | 6.40 % | 7.68 % | 43.5 % (seed 1010) | 0 (0) | 16.8 | 0.73 | 1.6 % | 578 (s 289) | 4.9 |
 | `realistic/long-outage/nobaro` | `ekf-honest {"pseudorange_receiver_clock": false}` | 50 | 61.89 % | 74.25 % | 95.3 % (seed 1034) | 0 (0) | 210.4 | 0.45 | 1.6 % | 2,452 (s 297) | 4.9 |
 | `realistic/long-outage/drop-baro` | `ekf-honest {"pseudorange_receiver_clock": false}` | 50 | 62.56 % | 75.05 % | 94.6 % (seed 1016) | 0 (0) | 156.6 | 0.47 | 1.6 % | 2,393 (s 294) | 4.9 |
 | `realistic/long-outage/barobias=0` | `ekf-honest {"pseudorange_receiver_clock": false}` | 50 | 70.70 % | 84.81 % | 94.6 % (seed 1016) | 0 (0) | 1335.7 | 0.26 | 1.6 % | 2,824 (s 299) | 4.9 |
@@ -323,46 +358,46 @@ The set's towers report their true white noise (50 m) but carry 50 m / 30 s mult
 
 ## Step 1: the existing estimators on tuning seeds (`measure`)
 
-`python analysis/honest_bound.py --plan measure --part calibrated:1c --seeds 1000-1049 --jobs 5 --host g14` at `e982f95` (DIRTY TREE) on g14 (Python 3.12.13), seeds 1000–1049, 10 min; `python analysis/honest_bound.py --plan measure --part plain --seeds 1000-1049 --jobs 5 --host g14` at `e982f95` (DIRTY TREE) on g14 (Python 3.12.13), seeds 1000–1049, 14 min
+`python analysis/honest_bound.py --plan measure --part calibrated:1c --seeds 1000-1049 --jobs 5 --host g14` at `f9df0ea` on g14 (Python 3.12.13), seeds 1000–1049, 7 min; `python analysis/honest_bound.py --plan measure --part plain --seeds 1000-1049 --jobs 5 --host g14` at `f9df0ea` on g14 (Python 3.12.13), seeds 1000–1049, 17 min
 
 | Scenario | Estimator | runs | above HPL, whole run | above HPL, from fault | worst run | hazardous (runs) | NEES mean | tightness | HPL ≤ 50 m | p95 worst (m, s) | unsafe after loss (median s) |
 |---|---|---|---|---|---|---|---|---|---|---|---|
-| `drone/nominal/1c` | `ekf` | 50 | 0.00 % | 0.00 % | 0.0 % (seed 1000) | 0 (0) | – | – | 100.0 % | – | – |
-| `drone/nominal/1c` | `ekf-learned-noise` | 50 | 0.00 % | 0.00 % | 0.0 % (seed 1000) | 0 (0) | – | – | 100.0 % | – | – |
-| `drone/nominal/1c` | `ekf-calibrated` | 50 | 0.00 % | 0.00 % | 0.0 % (seed 1000) | 0 (0) | – | – | 100.0 % | – | – |
-| `drone/nominal/1c` | `ekf-calibrated-learned-noise` | 50 | 0.00 % | 0.00 % | 0.0 % (seed 1000) | 0 (0) | – | – | 100.0 % | – | – |
-| `drone/outage/1c` | `ekf` | 50 | 34.42 % | 37.55 % | 95.3 % (seed 1015) | 237 (7) | – | 1.03 | 4.5 % | 10,006 (s 300) | 4.9 |
-| `drone/outage/1c` | `ekf-learned-noise` | 50 | 2.43 % | 2.66 % | 22.3 % (seed 1041) | 0 (0) | – | 1.11 | 9.5 % | 2,344 (s 300) | 4.9 |
-| `drone/outage/1c` | `ekf-calibrated` | 50 | 32.94 % | 35.93 % | 93.0 % (seed 1015) | 25 (2) | – | 1.29 | 4.7 % | 7,295 (s 299) | 4.9 |
-| `drone/outage/1c` | `ekf-calibrated-learned-noise` | 50 | 0.03 % | 0.04 % | 1.8 % (seed 1013) | 0 (0) | – | 1.81 | 9.6 % | 2,442 (s 300) | 4.9 |
-| `drone/spoof-jump/1c` | `ekf` | 50 | 74.63 % | 94.25 % | 97.7 % (seed 1015) | 240,047 (48) | – | 0.00 | 85.1 % | 7,508 (s 300) | – |
-| `drone/spoof-jump/1c` | `ekf-learned-noise` | 50 | 71.60 % | 90.43 % | 96.2 % (seed 1025) | 256,516 (50) | – | 0.02 | 90.9 % | 508 (s 57) | – |
-| `drone/spoof-jump/1c` | `ekf-guard` | 50 | 24.45 % | 30.88 % | 97.7 % (seed 1015) | 669 (6) | – | 1.61 | 1.1 % | 9,532 (s 300) | – |
-| `drone/spoof-jump/1c` | `ekf-learned-noise+guard` | 50 | 2.62 % | 3.31 % | 19.1 % (seed 1010) | 0 (0) | – | 0.82 | 0.9 % | 1,828 (s 300) | – |
-| `drone/spoof-jump/1c` | `ekf-calibrated` | 50 | 74.98 % | 94.70 % | 96.7 % (seed 1046) | 249,259 (48) | – | 0.01 | 88.3 % | 2,446 (s 300) | – |
-| `drone/spoof-jump/1c` | `ekf-calibrated-learned-noise` | 50 | 73.38 % | 92.68 % | 95.5 % (seed 1004) | 264,026 (50) | – | 0.02 | 93.5 % | 306 (s 28) | – |
-| `drone/spoof-jump/1c` | `ekf-calibrated-guard` | 50 | 24.62 % | 31.09 % | 95.6 % (seed 1015) | 29 (2) | – | 1.53 | 0.9 % | 7,619 (s 300) | – |
-| `drone/spoof-jump/1c` | `ekf-calibrated-learned-noise+guard` | 50 | 0.22 % | 0.28 % | 5.2 % (seed 1028) | 0 (0) | – | 1.06 | 0.9 % | 2,004 (s 300) | – |
-| `drone/nominal/6c` | `ekf` | 50 | 0.00 % | 0.00 % | 0.0 % (seed 1000) | 0 (0) | – | – | 100.0 % | – | – |
-| `drone/nominal/6c` | `ekf-learned-noise` | 50 | 0.00 % | 0.00 % | 0.0 % (seed 1000) | 0 (0) | – | – | 100.0 % | – | – |
-| `drone/outage/6c` | `ekf` | 50 | 42.34 % | 46.19 % | 98.2 % (seed 1013) | 293 (6) | – | 0.82 | 3.6 % | 12,442 (s 300) | 4.9 |
-| `drone/outage/6c` | `ekf-learned-noise` | 50 | 0.21 % | 0.23 % | 1.8 % (seed 1034) | 0 (0) | – | 1.41 | 9.8 % | 213 (s 94) | 4.9 |
-| `drone/spoof-jump/6c` | `ekf` | 50 | 75.40 % | 95.23 % | 96.5 % (seed 1017) | 244,207 (50) | – | 0.00 | 86.6 % | 4,700 (s 300) | – |
-| `drone/spoof-jump/6c` | `ekf-learned-noise` | 50 | 48.49 % | 61.24 % | 95.1 % (seed 1047) | 174,122 (48) | – | 0.44 | 62.0 % | 304 (s 82) | – |
-| `drone/spoof-jump/6c` | `ekf-guard` | 50 | 28.74 % | 36.30 % | 96.5 % (seed 1017) | 590 (6) | – | 1.36 | 1.1 % | 12,539 (s 300) | – |
-| `drone/spoof-jump/6c` | `ekf-learned-noise+guard` | 50 | 0.38 % | 0.48 % | 8.2 % (seed 1021) | 0 (0) | – | 1.59 | 0.9 % | 199 (s 270) | – |
-| `drone/nominal/13c` | `ekf` | 50 | 0.00 % | 0.00 % | 0.0 % (seed 1000) | 0 (0) | – | – | 100.0 % | – | – |
-| `drone/nominal/13c` | `ekf-learned-noise` | 50 | 0.00 % | 0.00 % | 0.0 % (seed 1000) | 0 (0) | – | – | 100.0 % | – | – |
-| `drone/outage/13c` | `ekf` | 50 | 49.42 % | 53.90 % | 99.1 % (seed 1047) | 362 (8) | – | 0.65 | 3.1 % | 14,019 (s 300) | 4.9 |
-| `drone/outage/13c` | `ekf-learned-noise` | 50 | 0.07 % | 0.08 % | 1.1 % (seed 1005) | 0 (0) | – | 1.70 | 9.8 % | 130 (s 256) | 5.0 |
-| `drone/spoof-jump/13c` | `ekf` | 50 | 75.12 % | 94.88 % | 98.4 % (seed 1013) | 240,838 (48) | – | 0.00 | 85.4 % | 9,428 (s 300) | – |
-| `drone/spoof-jump/13c` | `ekf-learned-noise` | 50 | 2.71 % | 3.42 % | 56.5 % (seed 1048) | 9,467 (6) | – | 1.88 | 4.2 % | 120 (s 259) | – |
-| `drone/spoof-jump/13c` | `ekf-guard` | 50 | 35.77 % | 45.17 % | 98.4 % (seed 1013) | 588 (4) | – | 0.92 | 1.1 % | 11,725 (s 300) | – |
-| `drone/spoof-jump/13c` | `ekf-learned-noise+guard` | 50 | 0.06 % | 0.08 % | 1.3 % (seed 1004) | 0 (0) | – | 1.88 | 0.9 % | 120 (s 259) | – |
+| `drone/nominal/1c` | `ekf` | 50 | 0.00 % | 0.00 % | 0.0 % (seed 1000) | 0 (0) | 1.6 | – | 100.0 % | – | – |
+| `drone/nominal/1c` | `ekf-learned-noise` | 50 | 0.00 % | 0.00 % | 0.0 % (seed 1000) | 0 (0) | 1.6 | – | 100.0 % | – | – |
+| `drone/nominal/1c` | `ekf-calibrated` | 50 | 0.00 % | 0.00 % | 0.0 % (seed 1000) | 0 (0) | 1.6 | – | 100.0 % | – | – |
+| `drone/nominal/1c` | `ekf-calibrated-learned-noise` | 50 | 0.00 % | 0.00 % | 0.0 % (seed 1000) | 0 (0) | 1.6 | – | 100.0 % | – | – |
+| `drone/outage/1c` | `ekf` | 50 | 34.42 % | 37.55 % | 95.3 % (seed 1015) | 237 (7) | 508.4 | 1.03 | 4.5 % | 10,006 (s 300) | 4.9 |
+| `drone/outage/1c` | `ekf-learned-noise` | 50 | 2.43 % | 2.66 % | 22.3 % (seed 1041) | 0 (0) | 7.1 | 1.11 | 9.5 % | 2,344 (s 300) | 4.9 |
+| `drone/outage/1c` | `ekf-calibrated` | 50 | 32.94 % | 35.93 % | 93.0 % (seed 1015) | 25 (2) | 224.4 | 1.29 | 4.7 % | 7,295 (s 299) | 4.9 |
+| `drone/outage/1c` | `ekf-calibrated-learned-noise` | 50 | 0.03 % | 0.04 % | 1.8 % (seed 1013) | 0 (0) | 1.8 | 1.81 | 9.6 % | 2,442 (s 300) | 4.9 |
+| `drone/spoof-jump/1c` | `ekf` | 50 | 74.63 % | 94.25 % | 97.7 % (seed 1015) | 240,047 (48) | 42333.7 | 0.00 | 85.1 % | 7,508 (s 300) | – |
+| `drone/spoof-jump/1c` | `ekf-learned-noise` | 50 | 71.60 % | 90.43 % | 96.2 % (seed 1025) | 256,516 (50) | 45180.8 | 0.02 | 90.9 % | 508 (s 57) | – |
+| `drone/spoof-jump/1c` | `ekf-guard` | 50 | 24.45 % | 30.88 % | 97.7 % (seed 1015) | 669 (6) | 277.6 | 1.61 | 1.1 % | 9,532 (s 300) | – |
+| `drone/spoof-jump/1c` | `ekf-learned-noise+guard` | 50 | 2.62 % | 3.31 % | 19.1 % (seed 1010) | 0 (0) | 7.9 | 0.82 | 0.9 % | 1,828 (s 300) | – |
+| `drone/spoof-jump/1c` | `ekf-calibrated` | 50 | 74.98 % | 94.70 % | 96.7 % (seed 1046) | 249,259 (48) | 43951.5 | 0.01 | 88.3 % | 2,446 (s 300) | – |
+| `drone/spoof-jump/1c` | `ekf-calibrated-learned-noise` | 50 | 73.38 % | 92.68 % | 95.5 % (seed 1004) | 264,026 (50) | 46511.2 | 0.02 | 93.5 % | 306 (s 28) | – |
+| `drone/spoof-jump/1c` | `ekf-calibrated-guard` | 50 | 24.62 % | 31.09 % | 95.6 % (seed 1015) | 29 (2) | 114.5 | 1.53 | 0.9 % | 7,619 (s 300) | – |
+| `drone/spoof-jump/1c` | `ekf-calibrated-learned-noise+guard` | 50 | 0.22 % | 0.28 % | 5.2 % (seed 1028) | 0 (0) | 3.0 | 1.06 | 0.9 % | 2,004 (s 300) | – |
+| `drone/nominal/6c` | `ekf` | 50 | 0.00 % | 0.00 % | 0.0 % (seed 1000) | 0 (0) | 1.6 | – | 100.0 % | – | – |
+| `drone/nominal/6c` | `ekf-learned-noise` | 50 | 0.00 % | 0.00 % | 0.0 % (seed 1000) | 0 (0) | 1.6 | – | 100.0 % | – | – |
+| `drone/outage/6c` | `ekf` | 50 | 42.34 % | 46.19 % | 98.2 % (seed 1013) | 293 (6) | 637.6 | 0.82 | 3.6 % | 12,442 (s 300) | 4.9 |
+| `drone/outage/6c` | `ekf-learned-noise` | 50 | 0.21 % | 0.23 % | 1.8 % (seed 1034) | 0 (0) | 5.0 | 1.41 | 9.8 % | 213 (s 94) | 4.9 |
+| `drone/spoof-jump/6c` | `ekf` | 50 | 75.40 % | 95.23 % | 96.5 % (seed 1017) | 244,207 (50) | 42989.8 | 0.00 | 86.6 % | 4,700 (s 300) | – |
+| `drone/spoof-jump/6c` | `ekf-learned-noise` | 50 | 48.49 % | 61.24 % | 95.1 % (seed 1047) | 174,122 (48) | 30640.0 | 0.44 | 62.0 % | 304 (s 82) | – |
+| `drone/spoof-jump/6c` | `ekf-guard` | 50 | 28.74 % | 36.30 % | 96.5 % (seed 1017) | 590 (6) | 388.5 | 1.36 | 1.1 % | 12,539 (s 300) | – |
+| `drone/spoof-jump/6c` | `ekf-learned-noise+guard` | 50 | 0.38 % | 0.48 % | 8.2 % (seed 1021) | 0 (0) | 4.8 | 1.59 | 0.9 % | 199 (s 270) | – |
+| `drone/nominal/13c` | `ekf` | 50 | 0.00 % | 0.00 % | 0.0 % (seed 1000) | 0 (0) | 1.6 | – | 100.0 % | – | – |
+| `drone/nominal/13c` | `ekf-learned-noise` | 50 | 0.00 % | 0.00 % | 0.0 % (seed 1000) | 0 (0) | 1.6 | – | 100.0 % | – | – |
+| `drone/outage/13c` | `ekf` | 50 | 49.42 % | 53.90 % | 99.1 % (seed 1047) | 362 (8) | 3470.5 | 0.65 | 3.1 % | 14,019 (s 300) | 4.9 |
+| `drone/outage/13c` | `ekf-learned-noise` | 50 | 0.07 % | 0.08 % | 1.1 % (seed 1005) | 0 (0) | 3.9 | 1.70 | 9.8 % | 130 (s 256) | 5.0 |
+| `drone/spoof-jump/13c` | `ekf` | 50 | 75.12 % | 94.88 % | 98.4 % (seed 1013) | 240,838 (48) | 42665.7 | 0.00 | 85.4 % | 9,428 (s 300) | – |
+| `drone/spoof-jump/13c` | `ekf-learned-noise` | 50 | 2.71 % | 3.42 % | 56.5 % (seed 1048) | 9,467 (6) | 1660.4 | 1.88 | 4.2 % | 120 (s 259) | – |
+| `drone/spoof-jump/13c` | `ekf-guard` | 50 | 35.77 % | 45.17 % | 98.4 % (seed 1013) | 588 (4) | 840.6 | 0.92 | 1.1 % | 11,725 (s 300) | – |
+| `drone/spoof-jump/13c` | `ekf-learned-noise+guard` | 50 | 0.06 % | 0.08 % | 1.3 % (seed 1004) | 0 (0) | 3.5 | 1.88 | 0.9 % | 120 (s 259) | – |
 
 ## Step 2: one term changed at a time, tuning seeds (`diagnose`)
 
-`python analysis/honest_bound.py --plan diagnose --seeds 1000-1049 --jobs 2 --host mac` at `af3aab6` (DIRTY TREE) on mac (Python 3.14.6), seeds 1000–1049, 20 min
+`python analysis/honest_bound.py --plan diagnose --seeds 1000-1049 --jobs 2 --host g14` at `f9df0ea` on g14 (Python 3.12.13), seeds 1000–1049, 19 min
 
 | Scenario | Estimator | runs | above HPL, whole run | above HPL, from fault | worst run | hazardous (runs) | NEES mean | tightness | HPL ≤ 50 m | p95 worst (m, s) | unsafe after loss (median s) |
 |---|---|---|---|---|---|---|---|---|---|---|---|
@@ -388,4 +423,4 @@ Runs that raised: 0.
 - **Calibrated family:** `ekf-calibrated` and `-learned-noise` were measured on 1 carrier (tuning seeds) only; their 6- and 13-carrier runs (8 min and 1.6 GB a run) were stopped. No fix is proposed for them.
 - **PR #241** (keep a GNSS fix's horizontal when only its height fails the 3-D gate; not on this branch) would change only epochs where GNSS is present and the barometer has drifted: the last 60 s of the drone `outage-baro-drift` runs (GPS back at 660 s after 96 m of baro drift; HPL ≤ 50 m on 0.7 % of epochs against 9.8 % on `outage`) and `realistic/baro-drift` (GNSS never lost, refused once the drift exceeds the gate). It cannot change an outage epoch.
 - **Real barometer.** A BMP180 told 0.3 m read −3.4 to +77.5 m on a static receiver (PR #241); the sim's barometer is white 0.5 m plus a 1 m bias. Not modelled here.
-- **Hop entries and the sweep** were run at different commits from the 1-carrier part (provenance lines); the estimator code is the same in all of them, except the receiver-clock switch, which changes no drone or timing record (test) and is why the approach leg was rerun.
+- **Commits:** every plan ran at `f9df0ea` (provenance lines).
